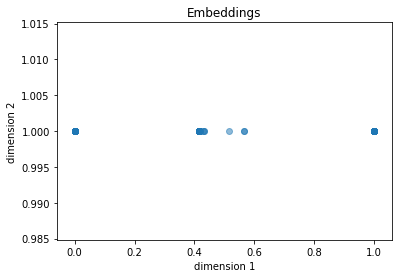
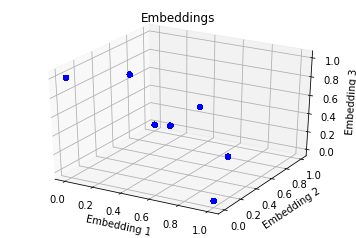
Add files via upload

Changed region(s): [[0.0, 0.0294, 1.0, 1.0], [0.8961, 0.6176, 0.9579, 0.6765]]

diff --git a/Deep-clustering/train_deep_clustering.py b/Deep-clustering/train_deep_clustering.py
@@ -53,6 +53,23 @@ n_classes = np.shape(Y_labels)[1]
 
 del data, tr_features, Y_labels
 
+#%% Get testing set
+
+#list of training data files   
+validation_list = ['../Data/test' + str(i) + '.pkl' for i in range(1, 2)]
+
+# generator for training set and validation set
+validation_data_generator = DataGenerator2(validation_list)
+
+#Get total number of batches
+validation_batches = int(validation_data_generator.total_batches(batch_size))
+
+#Print message to give data about how many batches are in the data
+print("Training set: Data samples: %d, Total number of points: %d"%(validation_data_generator.total_samples, validation_data_generator.total_number_of_datapoints()))
+
+#Remove unwanted variables
+del validation_list
+
 #%% Reset default graph
 
 tf.reset_default_graph()
@@ -60,7 +77,7 @@ tf.reset_default_graph()
 #%% Set training parameters
 #https://stats.stackexchange.com/questions/330176/what-is-the-output-of-a-tf-nn-dynamic-rnn
 
-training_epochs = 100
+training_epochs = 50
 n_neurons_in_h1 = 300
 n_neurons_in_h2 = 300
 learning_rate = 0.01
@@ -168,13 +185,6 @@ optimizer = tf.train.AdamOptimizer(learning_rate=learning_rate, beta1=0.9, beta2
 gradients_and_vars = optimizer.compute_gradients(loss_batch)
 train_step = optimizer.apply_gradients(gradients_and_vars)
 
-#%% Accuracy calculation
-
-#Get prediction from output
-#correct_prediction = tf.equal(tf.round(a), Y2_v1)
-#Accuracy determination
-#accuracy = tf.reduce_mean(tf.cast(correct_prediction, tf.float32), name="Accuracy")
-accuracy = loss_batch
 
 #%% Run model
 
@@ -193,10 +203,6 @@ model_checkpoint = "./model.chkpt"
 # Create a saver so we can save and load the model as we train it
 tf_saver = tf.train.Saver()
 
-# Start timer
-start = time.time()
-
-
 initial = tf.global_variables_initializer()
 
 #create session
@@ -205,10 +211,17 @@ with tf.Session() as sess:
     writer = tf.summary.FileWriter(foldername)
     writer.add_graph(sess.graph)
     merged_summary = tf.summary.merge_all()
-    accuracy_results = []
+    #Array for storing validation loss
+    validation_loss_results= []
+    #Arrays for storing training loss
     loss_results = []
     
+    
     for epoch in range(training_epochs):
+        
+        # Start timer
+        start = time.time()
+        
         #create array to hold intermediate results for accuracy and loss
         intermediate_accuracy = []
         intermediate_loss = []
@@ -225,35 +238,68 @@ with tf.Session() as sess:
             # concatenate labels together to get (64, 100, 129) array
             Y_labels = (np.concatenate([np.asarray(item['Target']) for item in data])).astype('int')
             
-            _, loss1, accuracy1  = sess.run([train_step, loss_batch, accuracy], feed_dict={X: tr_features, Y:Y_labels})
-            #Add loss and accuracy to intermediate array
+            _, loss1  = sess.run([train_step, loss_batch], feed_dict={X: tr_features, Y:Y_labels})
+            #Add loss to intermediate array
             intermediate_loss.append(loss1)
-            intermediate_accuracy.append(accuracy1)
             
-        #Append mean of loss and accuracy over batch to accuracy_loss results
-        accuracy_results.append(np.mean(intermediate_accuracy))
-        loss_results.append(np.mean(intermediate_loss))
-
-        #Get prediction of validation data after each epoch
+        #Save model after every 50 epochs
+        if epoch % 50 == 0:
+            save_path = tf_saver.save(sess, model_checkpoint)
             
-        #y_pred = sess.run(tf.argmax(a,1), feed_dict={X: ts_features})
-        #y_true = sess.run(tf.argmax(ts_labels, 1))
-        #summary, acc = sess.run([merged_summary, accuracy], feed_dict={X: ts_features, Y: ts_labels})
+        #Do validation after every 10 epochs
+        if epoch % 2 == 0:
+            
+            validation_intermediate_loss = []
+            
+            #loop through each batch in the dataset
+            for i in range(0, validation_batches):
+                
+                # Get data
+                validation_data = validation_data_generator.gen_batch(batch_size);
+                # Reshape training data
+                # concatenate training samples together to get (64, 100, 129) array
+                ts_features = np.concatenate([np.reshape(item['Sample'], [1, frames_per_sample, n_features]) for item in validation_data])
+                
+                # concatenate labels together to get (64, 100, 129) array
+                ts_labels = (np.concatenate([np.asarray(item['Target']) for item in validation_data])).astype('int')
+                
+                validation_loss  = sess.run([loss_batch], feed_dict={X: ts_features, Y:ts_labels})
+                #Add loss to intermediate array
+                validation_intermediate_loss.append(validation_loss)
+            
+            #Append mean of loss  over batch to accuracy_loss results
+            validation_loss_results.append([epoch, np.mean(intermediate_loss)])
+            
+        # finish timer 
+        end = time.time()
         
-        #writer.add_summary(summary, epoch)
-        print("epoch", epoch)
+        #Append mean of loss  over batch to accuracy_loss results
+        loss_results.append([epoch ,np.mean(intermediate_loss), end - start])
+        
+        print("epoch %d, time elapsed: %f"%(epoch,(end - start)))
+     
+    #Save model after final epochs
     save_path = tf_saver.save(sess, model_checkpoint)
-    
-# finish timer and display how long it took to build model in seconds
-end = time.time()
-print("Time elapsed (secs): %f"%(end - start))
+
+#Convert results to arrays
+loss_results = np.asarray(loss_results)
+validation_loss_results = np.asarray(validation_loss_results)            
+            
+print("Time elapsed (secs): %f"%(sum(loss_results[:,2])))
+
+#Save results to csv
+#Save training loss
+np.savetxt("loss_results.csv", loss_results, delimiter=",")
+
+#Save validation loss
+np.savetxt("loss_validation_results.csv", validation_loss_results, delimiter=",")
 
 del start, end
 
 
 #%% remove variables
     
-del i, loss1, accuracy1, intermediate_accuracy, intermediate_loss, epoch
+del i, loss1, intermediate_accuracy, intermediate_loss, epoch
 del foldername, model_checkpoint
 del save_path, learning_rate, batch_size, n_classes, n_features, n_neurons_in_h1, n_neurons_in_h2
 del Y_labels, data, tr_features
@@ -266,28 +312,29 @@ import matplotlib.pyplot as plt
 
 fig = plt.figure() 
 
-#sub plot 1 - Accuracy
+#sub plot 1 - Loss
 ax1 = plt.subplot(211)
-plt.plot(range(training_epochs), accuracy_results, linewidth=2.0)
+plt.plot(range(training_epochs), loss_results[:,1], linewidth=2.0)
 plt.xlabel('epoch')
-plt.ylabel('training accuracy')
-plt.title('accuracy')
+plt.ylabel('loss')
+plt.title('training loss')
+
 
 #sub plot 2 - Loss
-ax2 = plt.subplot(212, sharex=ax1)
-plt.plot(range(training_epochs), loss_results, linewidth=2.0)
+ax2 = plt.subplot(212)
+plt.plot(range(len(validation_loss_results)), validation_loss_results[:,1], linewidth=2.0)
 plt.xlabel('epoch')
-plt.ylabel('training loss')
-plt.title('loss')
+plt.ylabel('loss')
+plt.title('validation loss')
 
 plt.tight_layout()
-fig.savefig("bidilossaccuracy.png", bbox_inches="tight")
+fig.savefig("deepclusteringloss.png", bbox_inches="tight")
 plt.show()
 plt.close(fig)  
 
 #%%
 
-del training_epochs, accuracy_results, loss_results
+del training_epochs, loss_results, validation_loss_results
 
 #%% Test network with unseen data
 
@@ -336,6 +383,7 @@ with tf.Session() as sess:
     
     #restore session from checkpoint
     saver.restore(sess, model_checkpoint)
+    
         
     #get length of spectrogram for mixture signal
     len_spec = ts_features.shape[0]
@@ -377,21 +425,28 @@ with tf.Session() as sess:
 
 
 # Convert list to array   
-# this returns a 1 dimensional aarray of 1x21801
-embeddings_list = np.squeeze(np.concatenate([item for item in embeddings], axis=1), axis=2)
+# this returns a 1 dimensional aarray of 1x21801       
+embeddings_list = np.squeeze(np.concatenate([item for item in embeddings], axis=1), axis=0)
 
 del k, current_len_spec
 
 #%% Visualize the embeddings
 
-fig = plt.figure() 
+import matplotlib.pyplot as plt
+from mpl_toolkits.mplot3d import Axes3D
+#ax = Axes3D(fig)
 
 #Plot embeddings
-plt.scatter(x=embeddings_list[0], y=np.ones(embeddings_list.shape[1]), alpha=0.5)
-plt.xlabel('dimension 1')
-plt.ylabel('dimension 2')
-plt.title('Embeddings')
-plt.show()
+fig = plt.figure()
+ax = fig.add_subplot(111, projection='3d')
+ax.scatter(embeddings_list[:,0], embeddings_list[:,1], embeddings_list[:,2], c = 'b', marker='o', alpha=0.5)
+
+
+ax.set_xlabel('Embedding 1')
+ax.set_ylabel('Embedding 2')
+ax.set_zlabel('Embedding 3')
+ax.set_title('Embeddings')
+
 
 fig.savefig("deepclustering_embeddings.png", bbox_inches="tight")
 plt.show()
@@ -404,23 +459,34 @@ plt.close(fig)
 from sklearn.cluster import KMeans
 
 # Apply k-means to test signal
-kmean = KMeans(n_clusters=2, random_state=0).fit(embeddings_list.reshape(-1,1))
+kmean = KMeans(n_clusters=2, random_state=0).fit(embeddings_list)
 
 #%% Plot k-means
 
-fig = plt.figure() 
+#Get 2 series from embeddings
+x1 = embeddings_list[kmean.labels_==0,:]
+x2 = embeddings_list[kmean.labels_==1,:]
 
 #Plot embeddings
-plt.scatter(x=embeddings_list[0], y=np.ones(embeddings_list.shape[1]), alpha=0.5, c=kmean.labels_)
-plt.xlabel('dimension 1')
-plt.ylabel('dimension 2')
-plt.title('Embeddings')
-plt.show()
+fig = plt.figure()
+ax = fig.add_subplot(111, projection='3d')
+ax.scatter(x1[:,0], x1[:,1], x1[:,2], c='blue', marker='o', alpha=0.5, label = 'cluster 1')
+ax.scatter(x2[:,0], x2[:,1], x2[:,2], c='red', marker='o', alpha=0.5, label = 'cluster 2')
+
+ax.set_xlabel('Embedding 1')
+ax.set_ylabel('Embedding 2')
+ax.set_zlabel('Embedding 3')
+ax.set_title('Embeddings')
+#ax.legend(['Cluster 1', 'Cluster 2'])
+#ax.legend(['label1', 'label2'], numpoints = 2)
+ax.legend()
 
 fig.savefig("deepclustering_separation.png", bbox_inches="tight")
 plt.show()
-plt.close(fig)  
+plt.close(fig) 
 
+
+del x1, x2
 
 #%% create ibm mask
 
@@ -450,7 +516,7 @@ ax2.imshow(ibm, cmap='Greys', interpolation='none', extent=[0,(209/129),129,0], 
 ax2.set(title='IBM', xlabel='Time [sec]')
 
 plt.tight_layout()
-fig.savefig("bidilossibm.png", bbox_inches="tight")
+fig.savefig("deep_clustering_ibm.png", bbox_inches="tight")
 plt.show()
 plt.close(fig)
 
@@ -489,8 +555,36 @@ plt.title('Separated signal')
 
 #Save figure
 plt.tight_layout()
-fig.savefig("bidilossrecoveredwav.png", bbox_inches="tight")
+fig.savefig("deep_clustering_recoveredwav.png", bbox_inches="tight")
 plt.show()
+plt.close(fig)
+
+#%% Calculate signal to distortion ratio
+import math
+
+Signal1 = testdata['Signal1']
+Signal2 = testdata['Signal2']
+MixtureSignal = testdata['MixtureSignal']
+
+top1 = (1 / Signal1.shape[0]) * np.sum(np.power(Signal1, 2))
+top2 = (1 / Signal2.shape[0]) * np.sum(np.power(Signal2, 2))
+bottom = (1 / MixtureSignal.shape[0]) * np.sum(np.power(MixtureSignal, 2))
+
+SND1 = 10 * math.log10(top1/bottom)
+SND2 = 10 * math.log10(top2/bottom)
+
+objects = ('Signal 1', 'Signal 2')
+y_pos = np.arange(len(objects))
+
+fig = plt.figure() 
+
+plt.bar(y_pos, [SND1, SND2], align='center', alpha=0.5)
+plt.xticks(y_pos, objects)
+plt.ylabel('Signal to distortion')
+plt.title('Signal performance')
+ 
+plt.show()
+
 plt.close(fig)
 
 
